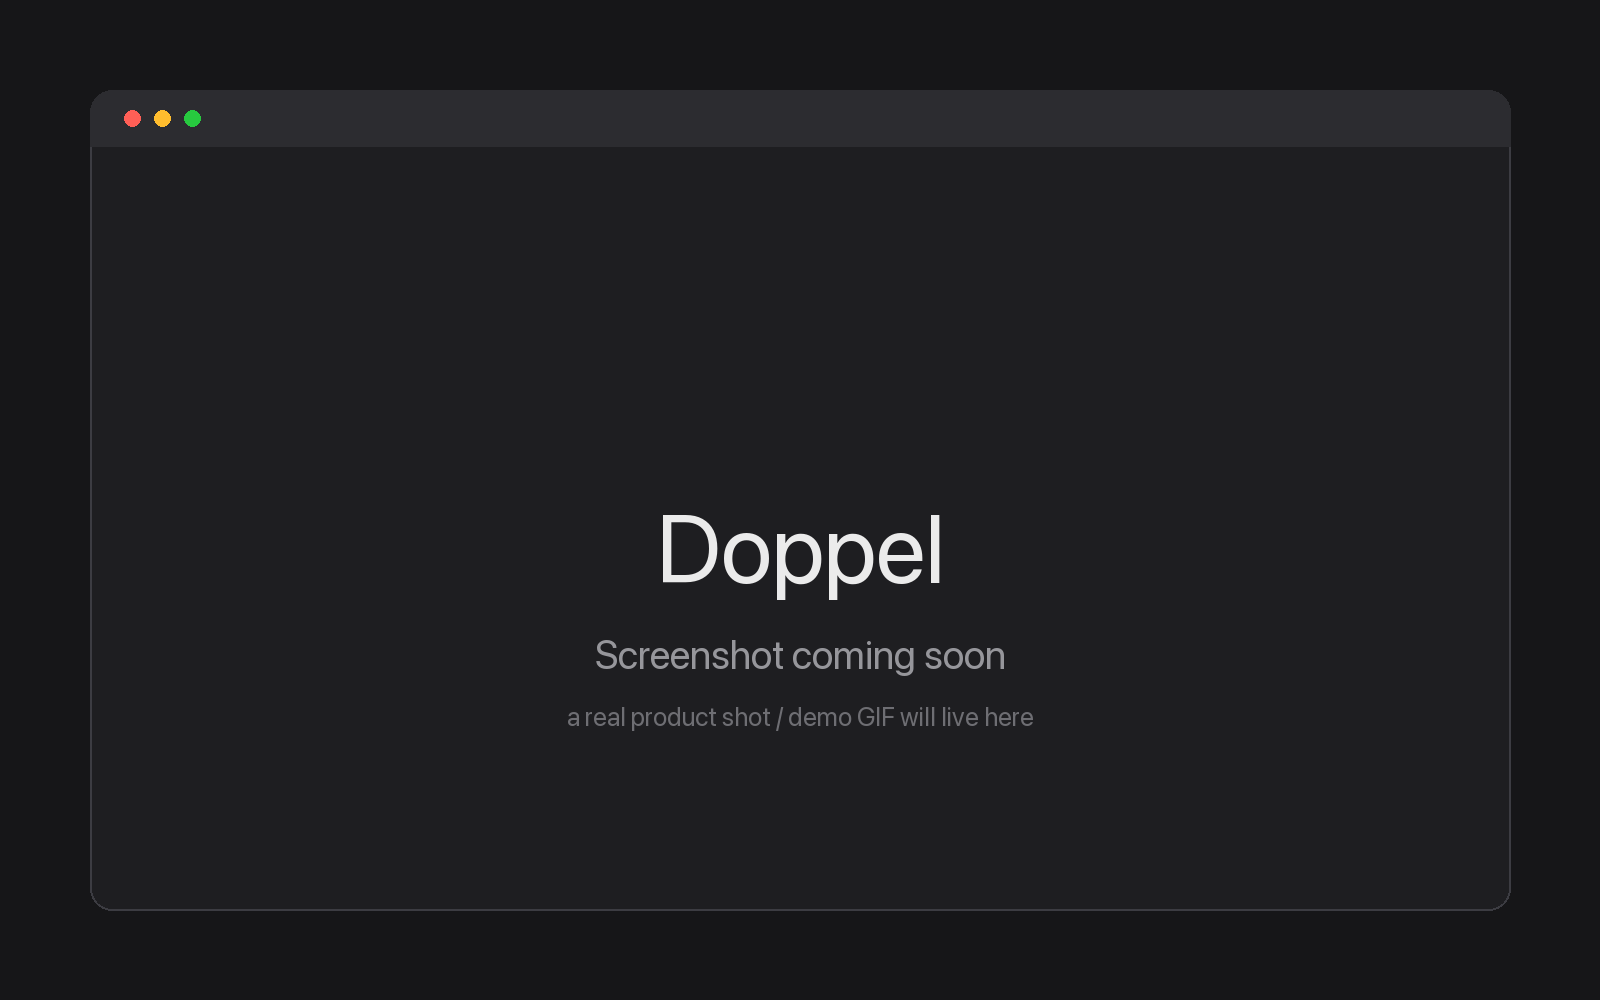
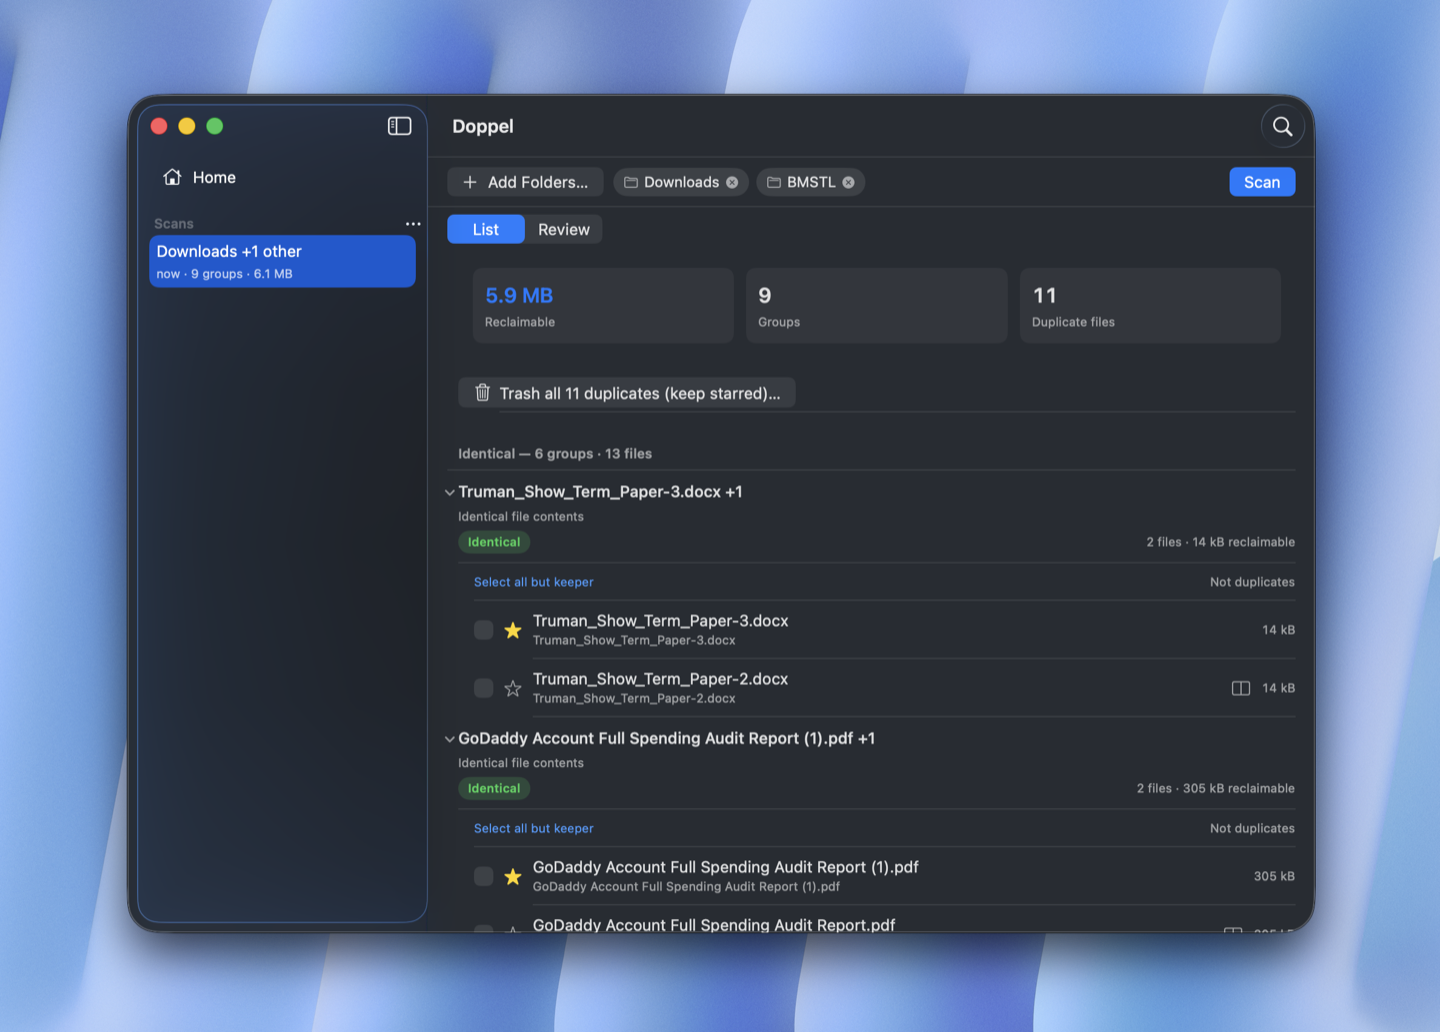
docs: add real app screenshots to README and site
Replace placeholder screenshot slots with actual captures of the
empty state, results list, review pane, and Trash confirmation.
Optimized to ~1MB each via sips.

diff --git a/site/app/page.js b/site/app/page.js
@@ -36,10 +36,7 @@ export default function Home() {
           <p className="fineprint">Free &amp; open source · macOS 14 Sonoma or later · 100% offline</p>
 
           <div className="device">
-            <div className="shot">
-              <span>App screenshot — Results window</span>
-              <small>Placeholder. Drop a capture of the three-column results view here (assets/shot-results.png).</small>
-            </div>
+            <img src={`${BASE}/assets/shot-empty.png`} alt="Doppel ready to scan — everything stays on your Mac, nothing is ever uploaded" width="1600" height="1148" />
           </div>
         </div>
       </header>
@@ -58,7 +55,7 @@ export default function Home() {
               <p>Doppel reads text, PDFs, and Office documents, then compares meaning — not filenames. It surfaces near-duplicates a hash-only tool would miss entirely.</p>
             </div>
             <div className="media">
-              <div className="shot"><span>Compare view</span><small>Side-by-side word diff (assets/shot-compare.png)</small></div>
+              <img src={`${BASE}/assets/shot-review.png`} alt="Reviewing one group — two versions of the same paper, flagged identical" width="1600" height="1148" />
             </div>
           </div>
 
@@ -68,7 +65,7 @@ export default function Home() {
               <p>No black boxes. Each group tells you <em>why</em> it&apos;s a match and how confident it is — “same contract, changed date” — with a clear confidence score you can trust.</p>
             </div>
             <div className="media">
-              <div className="shot"><span>Group card</span><small>Reason + confidence badge (assets/shot-group.png)</small></div>
+              <img src={`${BASE}/assets/shot-results.png`} alt="Results list — every group labelled with why it matched and how much space it frees" width="1600" height="1148" />
             </div>
           </div>
 
@@ -78,7 +75,7 @@ export default function Home() {
               <p>Doppel never destroys anything. It <em>suggests</em> a keeper; you confirm. Everything goes to the Trash, and a single ⌘Z brings it right back.</p>
             </div>
             <div className="media">
-              <div className="shot"><span>Confirmation sheet</span><small>Multi-select + select-all-but-keeper (assets/shot-delete.png)</small></div>
+              <img src={`${BASE}/assets/shot-delete.png`} alt="Confirmation sheet — review exactly what moves to the Trash before anything happens" width="1600" height="1148" />
             </div>
           </div>
         </div>

diff --git a/site/app/globals.css b/site/app/globals.css
@@ -95,11 +95,18 @@ h3 { font-size: 24px; font-weight: 600; letter-spacing: -0.02em; }
 
 /* device screenshot */
 .device {
-  max-width: 900px; margin: 56px auto 0;
+  max-width: 960px; margin: 56px auto 0;
   border-radius: var(--radius);
   overflow: hidden;
   box-shadow: 0 30px 70px rgba(0,0,0,0.22);
   border: 1px solid var(--hairline);
+}
+.device img { display: block; width: 100%; height: auto; }
+.feature-row .media img {
+  display: block; width: 100%; height: auto;
+  border-radius: var(--radius);
+  border: 1px solid var(--hairline);
+  box-shadow: 0 20px 50px rgba(0,0,0,0.16);
 }
 
 /* ---------- Placeholder screenshots ---------- */

diff --git a/README.md b/README.md
@@ -44,6 +44,19 @@ your files ─▶ size/metadata     group by the obvious stuff
 
 Nothing is ever deleted — files go to the Trash, always undoable. Deep dive: [`ARCHITECTURE.md`](ARCHITECTURE.md).
 
+## Screens
+
+<table>
+  <tr>
+    <td width="50%"><img src="docs/assets/shot-review.png" alt="Review one group at a time"><br><sub><b>Review, one group at a time.</b> Two versions of the same paper, flagged identical — keep the star, trash the rest.</sub></td>
+    <td width="50%"><img src="docs/assets/shot-delete.png" alt="Confirm before anything moves to Trash"><br><sub><b>Nothing goes without a yes.</b> See exactly what moves to the Trash — and restore any of it later.</sub></td>
+  </tr>
+  <tr>
+    <td width="50%"><img src="docs/assets/shot-empty.png" alt="Everything stays on your Mac"><br><sub><b>Point it at your folders.</b> Everything stays on your Mac — nothing is ever uploaded.</sub></td>
+    <td width="50%" valign="middle"><sub>Documents today (text · PDF · <code>.docx</code> · <code>.xlsx</code>). Images are next. Every group tells you <b>why</b> it matched and how much space you'd reclaim.</sub></td>
+  </tr>
+</table>
+
 ## Install
 
 ```bash